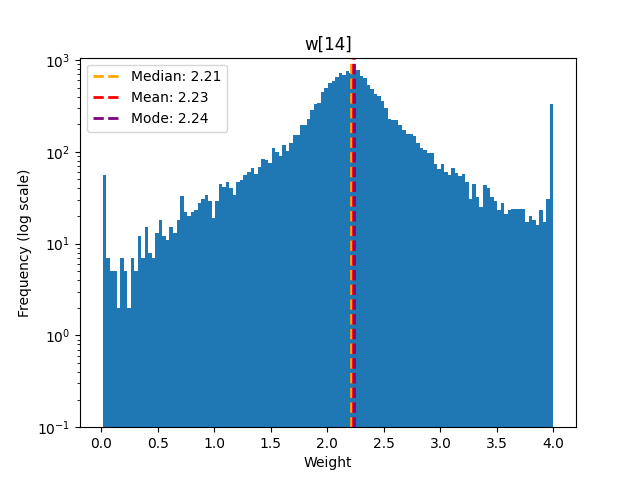
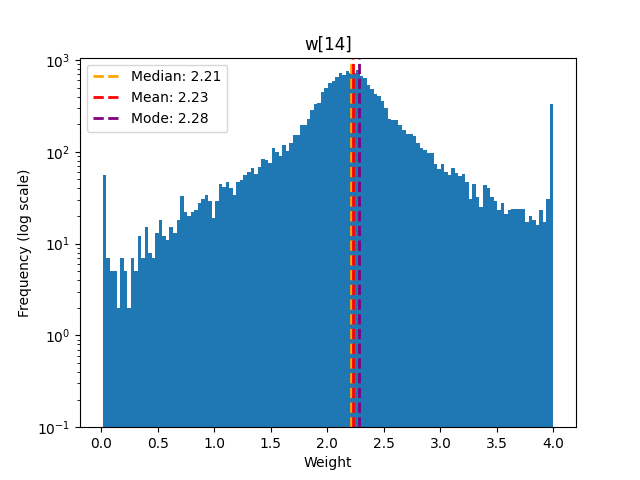
replace weights with parameters in analysis.py

Changed region(s): [[0.5312, 0.125, 0.5625, 0.9062], [0.3125, 0.2188, 0.3438, 0.25]]

diff --git a/analysis.py b/analysis.py
@@ -209,11 +209,11 @@ if __name__ == "__main__":
     n_params = len(DEFAULT_PARAMETER)
     for result in data:
         for i in range(n_params):
-            if abs(result["weights"][i] - DEFAULT_PARAMETER[i]) <= 1e-4:
+            if abs(result["parameters"][i] - DEFAULT_PARAMETER[i]) <= 1e-4:
                 # remove users who have parameters that are close to the default
                 break
         else:
-            weights.append(result["weights"])
+            weights.append(result["parameters"])
             sizes.append(result["size"])
 
     weights = np.array(weights)
